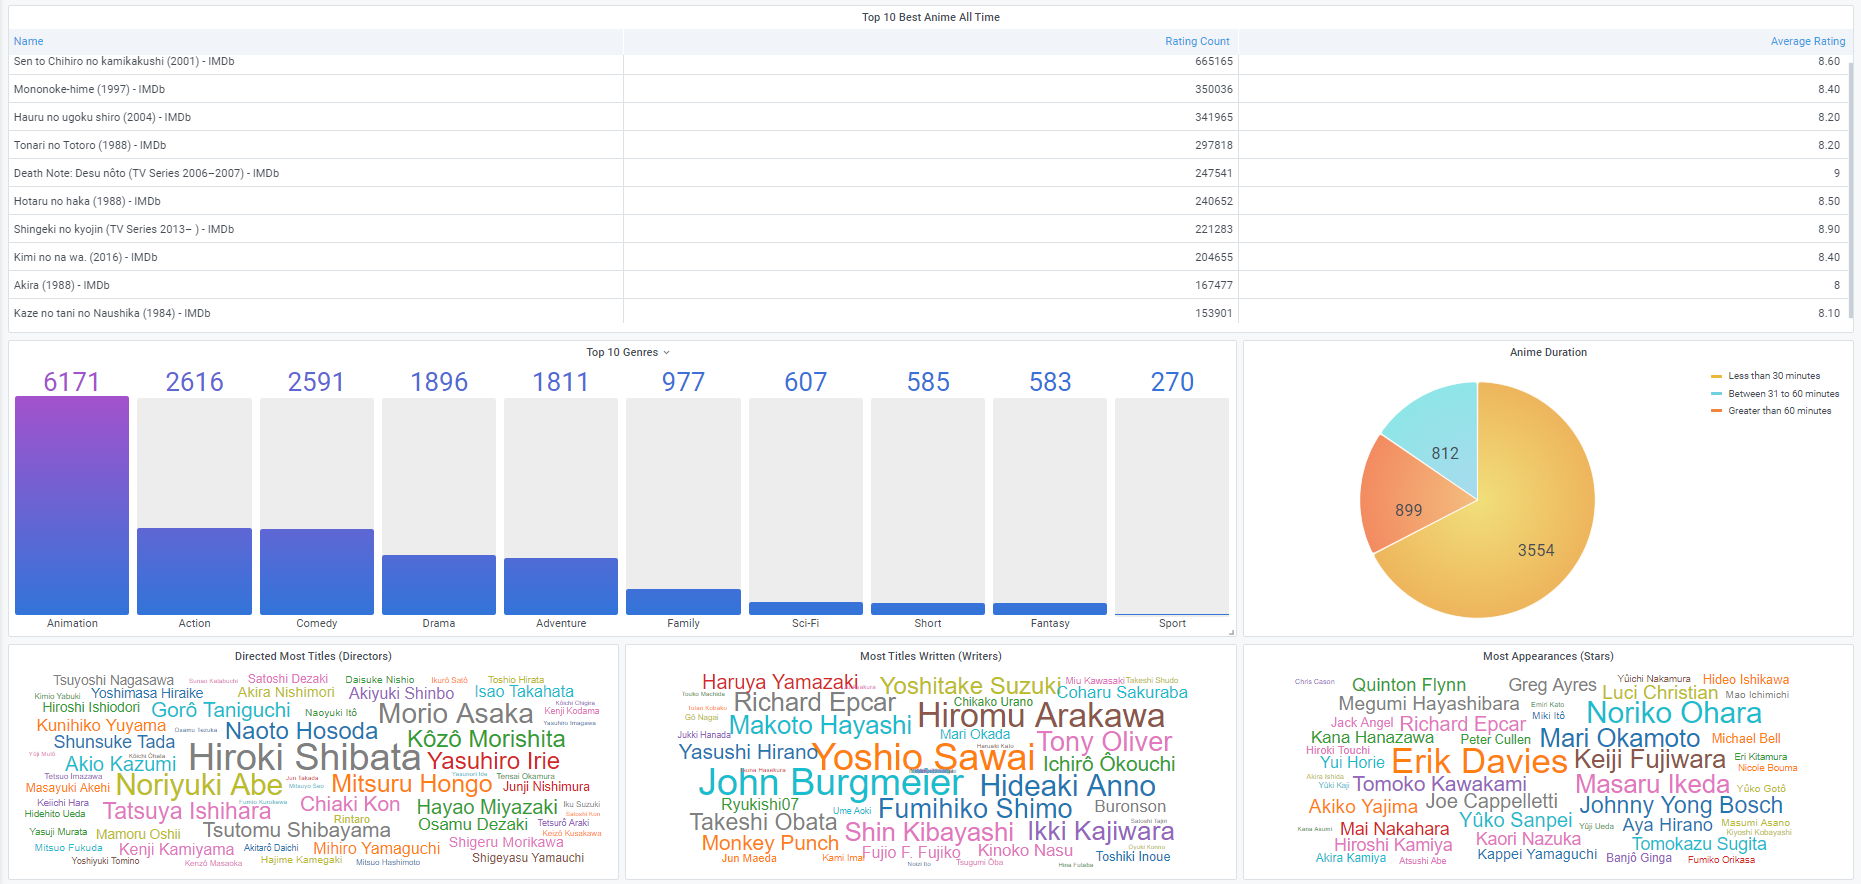
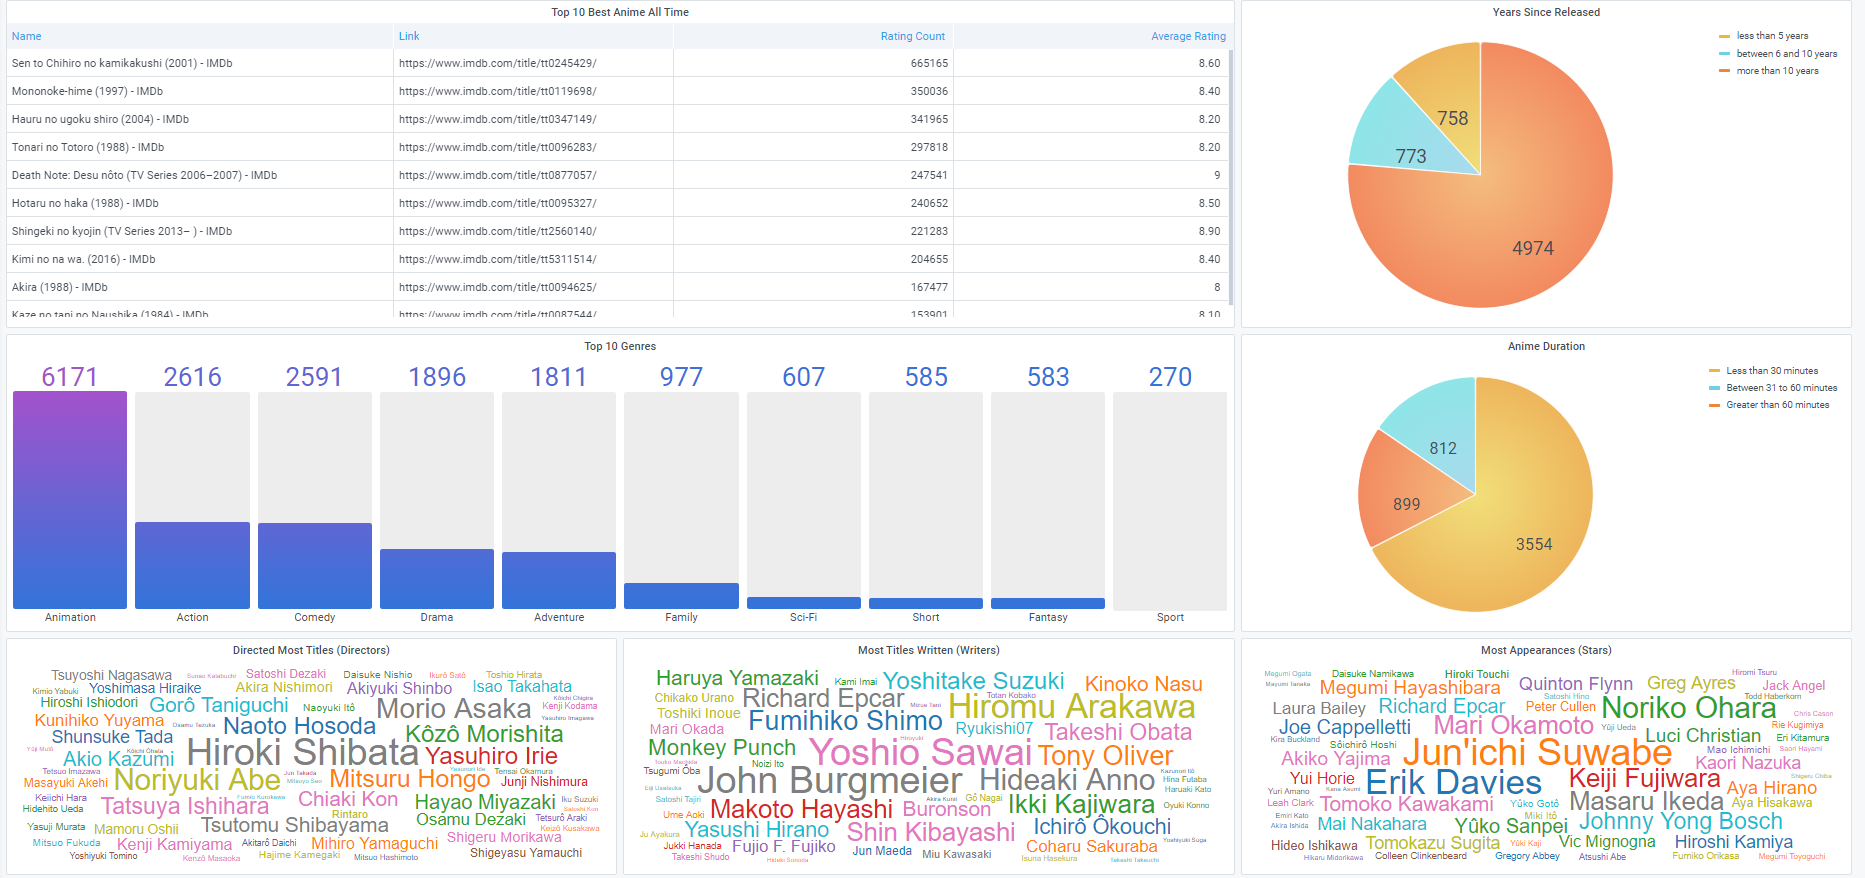
edited docs and updated dashboard

diff --git a/README.md b/README.md
@@ -1,8 +1,4 @@
-# imdb-scraping
-
-## To-do
-1. refine schema as necessary
-2. do transformation on these json files and dump them into the postgres db - need to explore the data and decide what kind of transformations to perform
+# IMDb Scraping
 
 ## Introduction
 This repo performs web scraping on the IMDb website using `BeautifulSoup`, particularly on Anime titles (who doesn't like Animes, duh!). Data of each of the Anime titles are uploaded to `MinIO` as JSON files, where each JSON file contains data of 5 titles. The `populate_db_parallel.py` script will read these JSON files and populate the `PostgreSQL` database with the [following schema](#database-schema). Finally, `Grafana` pulls the data from `PostgreSQL` for us to visualize the data.
@@ -11,6 +7,10 @@ This repo performs web scraping on the IMDb website using `BeautifulSoup`, parti
 1. Intensive web scraping can cause heavy load on the IMDb servers. You can get blocked from accessing IMDb website if you intend to speed up the scraping jobs by creating more processes. The script currently uses 2 * number of CPUs (my total CPUs = 12) and it seems alright...
 - It would be a better idea to directly download the dataset provided by the IMDb team [here](https://datasets.imdbws.com/) and the documentation for this dataset is found [here](https://www.imdb.com/interfaces/)
 2. These scripts work for the current IMDb Title page layout at this time of writing (18 April 2021). The IMDb team is working on updates to the Title page and it is highly likely that these scripts may not work after the update...
+
+## Dashboard
+An example dashboard that I decided to come up with. 
+![dashboard](./images/dashboard.png)
 
 ## High-Level Block Diagram
 ![imdb-scraping](./images/imdb-scraping.png)
